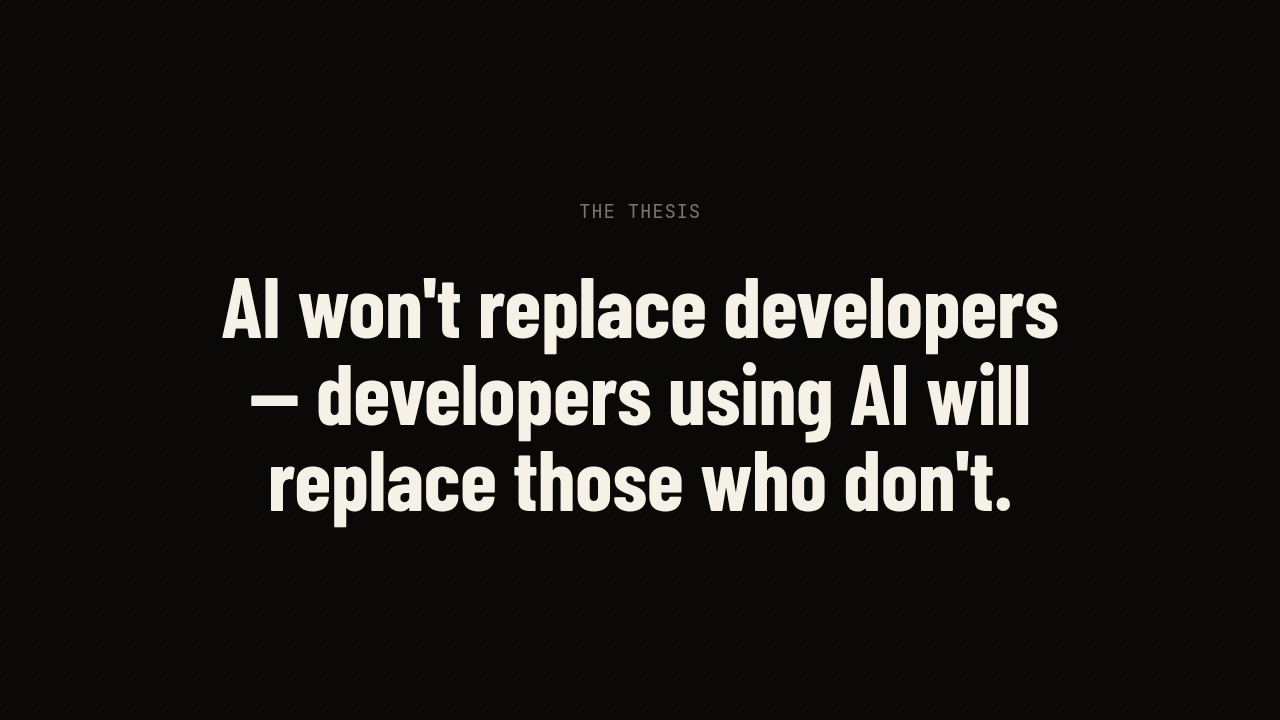
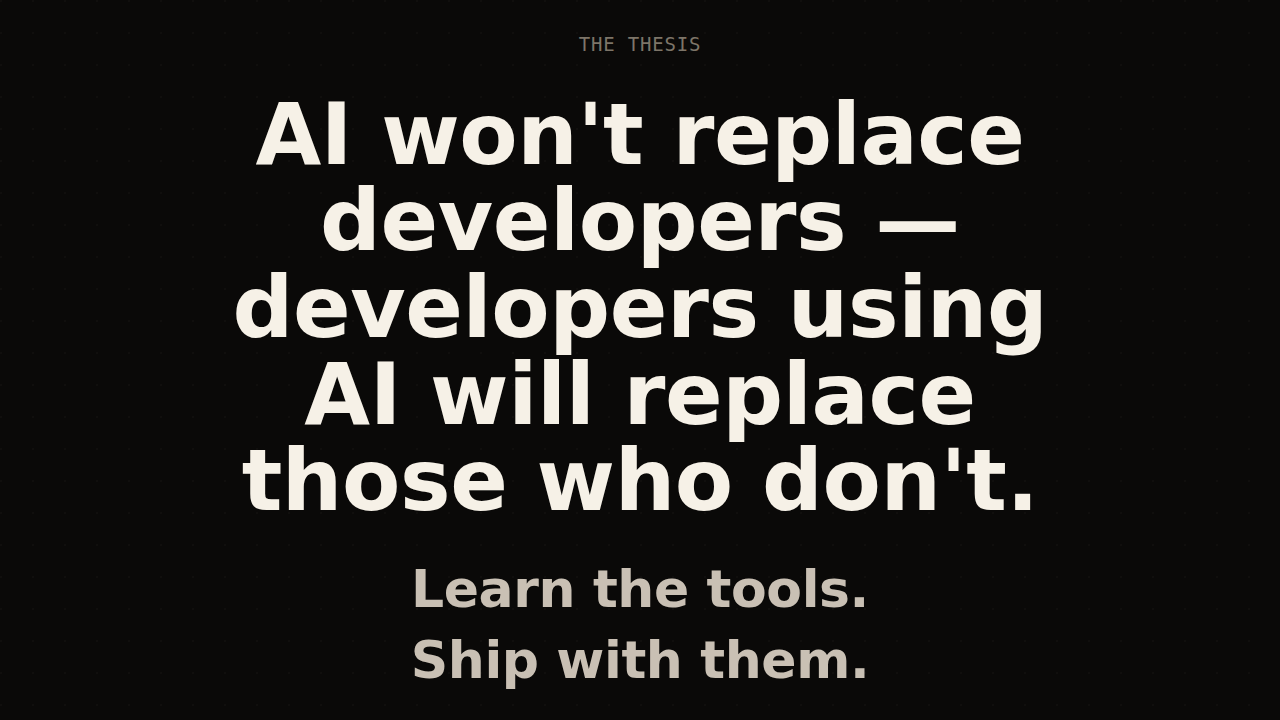
feat(big-statement): follow-up statements that reveal one by one (#107)
Big Statement held exactly one sentence. An author who wanted to land a thesis
and then build on it had to spend a slide per line, losing the build-up the
steps-reveal animation gives every list template.

A new optional `items` slot adds follow-up statements under the main one, each
item `{ text }`, smaller (~0.6x) and in the secondary ink so the statement
still lands hardest. Every line is a `step`, so adding Steps reveal brings them
in one at a time; without an animation they are simply there.

Named `items`, not `statements`, on purpose: the Studio's steps-reveal counts
its default beats from the `items` slot (`STEPS_REVEAL_SLOT`), and the generic
list editor already edits `{ text }` items with add/remove — so both work with
no Studio change.

The lines are direct children of `__inner`, with no wrapper: a slide without
the list renders exactly the DOM it always did, so every existing big-statement
slide is unchanged. `__line` is a new stylable entity (Element styles), and
inline highlights (`**word**`) work inside it.

sample.json carries two lines so check:canvas measures the new layout, not an
empty list; the three previews are regenerated from it. Version 1.1.0.

diff --git a/templates/big-statement/portrait.css b/templates/big-statement/portrait.css
@@ -70,3 +70,34 @@
   overflow-wrap: break-word;
   text-wrap: balance;
 }
+
+/*
+ * `items` — the follow-up statements, optional. Each one is a `step`, so the
+ * steps-reveal preset brings them in one at a time under the main statement.
+ * Smaller than the statement (~0.6×) so the first line still lands hardest and
+ * three of them fit the canvas with it. They are direct children of `__inner`,
+ * with no wrapper: a slide without the list renders exactly the DOM it always
+ * did. The gap between two lines is tighter than the one above the first, so
+ * the list reads as one block under the statement.
+ */
+.tpl-root.tpl-big-statement.tpl-big-statement--portrait .tpl-big-statement__line {
+  font-family: var(--s-font-display, 'Barlow Condensed', sans-serif);
+  font-size: 54px;
+  font-weight: var(--p-weight-700, 700);
+  line-height: 1.05;
+  letter-spacing: var(--p-tracking-tight, -0.4px);
+  color: var(--s-ink-secondary, #c9c0b0);
+  margin: 0;
+  max-width: 20ch;
+  overflow-wrap: break-word;
+  text-wrap: balance;
+  /* steps-reveal: the Studio runtime writes --anim-opacity/--anim-progress on
+     each [data-anim-target="step"] for a given t. The fallbacks are the final
+     state, so a slide that does not animate shows every line. */
+  opacity: var(--anim-opacity, 1);
+  transform: translateY(calc((1 - var(--anim-progress, 1)) * 14px));
+}
+
+.tpl-root.tpl-big-statement.tpl-big-statement--portrait .tpl-big-statement__line + .tpl-big-statement__line {
+  margin-top: -21px;
+}

diff --git a/templates/big-statement/social-portrait.css b/templates/big-statement/social-portrait.css
@@ -66,3 +66,34 @@
   overflow-wrap: break-word;
   text-wrap: balance;
 }
+
+/*
+ * `items` — the follow-up statements, optional. Each one is a `step`, so the
+ * steps-reveal preset brings them in one at a time under the main statement.
+ * Smaller than the statement (~0.6×) so the first line still lands hardest and
+ * three of them fit the canvas with it. They are direct children of `__inner`,
+ * with no wrapper: a slide without the list renders exactly the DOM it always
+ * did. The gap between two lines is tighter than the one above the first, so
+ * the list reads as one block under the statement.
+ */
+.tpl-root.tpl-big-statement.tpl-big-statement--social .tpl-big-statement__line {
+  font-family: var(--s-font-display, 'Barlow Condensed', sans-serif);
+  font-size: 72px;
+  font-weight: var(--p-weight-700, 700);
+  line-height: 1.05;
+  letter-spacing: var(--p-tracking-tight, -0.4px);
+  color: var(--s-ink-secondary, #c9c0b0);
+  margin: 0;
+  max-width: 22ch;
+  overflow-wrap: break-word;
+  text-wrap: balance;
+  /* steps-reveal: the Studio runtime writes --anim-opacity/--anim-progress on
+     each [data-anim-target="step"] for a given t. The fallbacks are the final
+     state, so a slide that does not animate shows every line. */
+  opacity: var(--anim-opacity, 1);
+  transform: translateY(calc((1 - var(--anim-progress, 1)) * 18px));
+}
+
+.tpl-root.tpl-big-statement.tpl-big-statement--social .tpl-big-statement__line + .tpl-big-statement__line {
+  margin-top: -28px;
+}

diff --git a/templates/big-statement/landscape.css b/templates/big-statement/landscape.css
@@ -82,3 +82,34 @@
   overflow-wrap: break-word;
   text-wrap: balance;
 }
+
+/*
+ * `items` — the follow-up statements, optional. Each one is a `step`, so the
+ * steps-reveal preset brings them in one at a time under the main statement.
+ * Smaller than the statement (~0.6×) so the first line still lands hardest and
+ * three of them fit the canvas with it. They are direct children of `__inner`,
+ * with no wrapper: a slide without the list renders exactly the DOM it always
+ * did. The gap between two lines is tighter than the one above the first, so
+ * the list reads as one block under the statement.
+ */
+.tpl-root.tpl-big-statement .tpl-big-statement__line {
+  font-family: var(--s-font-display, 'Barlow Condensed', sans-serif);
+  font-size: 52px;
+  font-weight: var(--p-weight-700, 700);
+  line-height: 1.05;
+  letter-spacing: var(--p-tracking-tight, -0.4px);
+  color: var(--s-ink-secondary, #c9c0b0);
+  margin: 0;
+  max-width: 30ch;
+  overflow-wrap: break-word;
+  text-wrap: balance;
+  /* steps-reveal: the Studio runtime writes --anim-opacity/--anim-progress on
+     each [data-anim-target="step"] for a given t. The fallbacks are the final
+     state, so a slide that does not animate shows every line. */
+  opacity: var(--anim-opacity, 1);
+  transform: translateY(calc((1 - var(--anim-progress, 1)) * 14px));
+}
+
+.tpl-root.tpl-big-statement .tpl-big-statement__line + .tpl-big-statement__line {
+  margin-top: -21px;
+}

diff --git a/templates/big-statement/landscape.html b/templates/big-statement/landscape.html
@@ -2,5 +2,8 @@
   <div class="tpl-big-statement__inner">
     {{#eyebrow}}<span class="tpl-big-statement__eyebrow">{{eyebrow}}</span>{{/eyebrow}}
     <p class="tpl-big-statement__statement">{{statement}}</p>
+    {{#items}}
+    <p class="tpl-big-statement__line" data-anim-target="step" data-anim-index="{{anim_index}}">{{text}}</p>
+    {{/items}}
   </div>
 </div>

diff --git a/templates/big-statement/portrait.html b/templates/big-statement/portrait.html
@@ -2,5 +2,8 @@
   <div class="tpl-big-statement__inner">
     {{#eyebrow}}<span class="tpl-big-statement__eyebrow">{{eyebrow}}</span>{{/eyebrow}}
     <p class="tpl-big-statement__statement">{{statement}}</p>
+    {{#items}}
+    <p class="tpl-big-statement__line" data-anim-target="step" data-anim-index="{{anim_index}}">{{text}}</p>
+    {{/items}}
   </div>
 </div>

diff --git a/templates/big-statement/social-portrait.html b/templates/big-statement/social-portrait.html
@@ -2,5 +2,8 @@
   <div class="tpl-big-statement__inner">
     {{#eyebrow}}<span class="tpl-big-statement__eyebrow">{{eyebrow}}</span>{{/eyebrow}}
     <p class="tpl-big-statement__statement">{{statement}}</p>
+    {{#items}}
+    <p class="tpl-big-statement__line" data-anim-target="step" data-anim-index="{{anim_index}}">{{text}}</p>
+    {{/items}}
   </div>
 </div>
